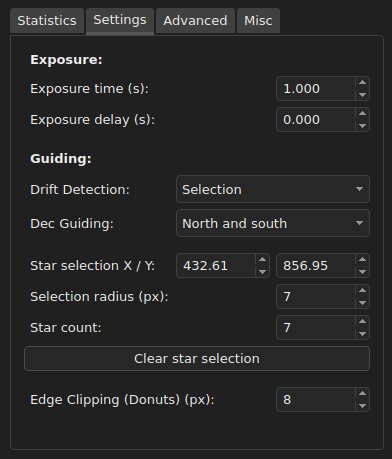
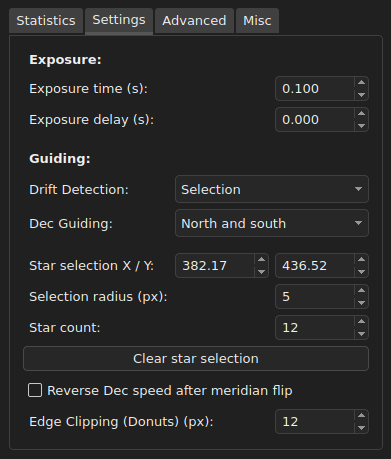
users guide updated

diff --git a/ain_users_guide/ain_users_guide.md b/ain_users_guide/ain_users_guide.md
@@ -321,6 +321,8 @@ In "Selection" guiding the primary star can be selected by **Right-Clicking** on
 
 Only the first star can be selected manually or automatically. All other stars can only be auto selected. The list of the selected star can be cleared by pushing **Clear star selection** button. This will force the *Guider Agent* to make a new selection when any process is started.
 
+If the Declination guiding runs away after meridian flip **Reverse Dec speed after meridian flip** should be checked. Some mounts track their "side of pier" state and automatically reverse the direction of the declination motor after a meridian flip. Other mounts do not do this. There is no way for INDIGO to know this in advance. This is why INDIGO needs this to be specified.
+
 In "Donuts" guiding the whole frame is used to detect drift but some cameras have unusable border around the frame. This can interfere with the guiding and this area can be excluded by specifying **Edge Clipping**
 
 ### Advanced tab
